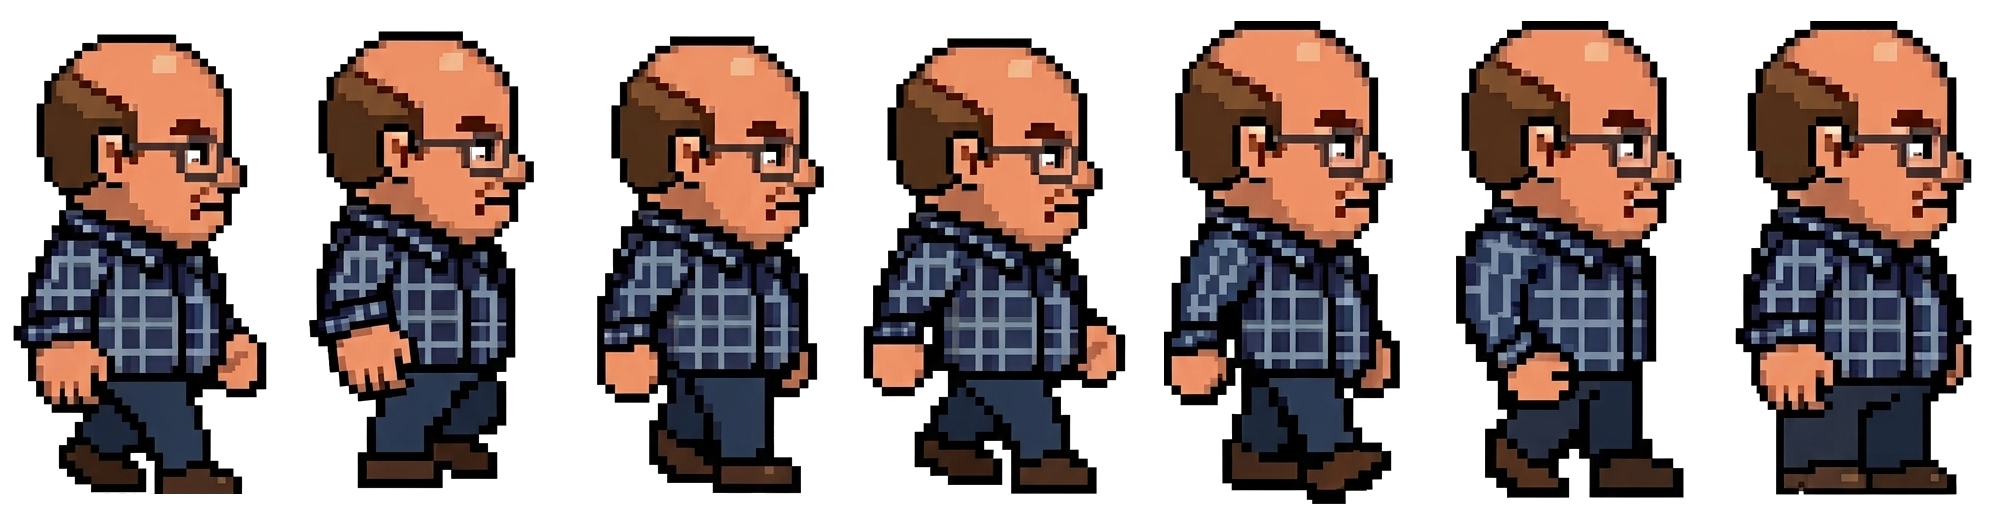
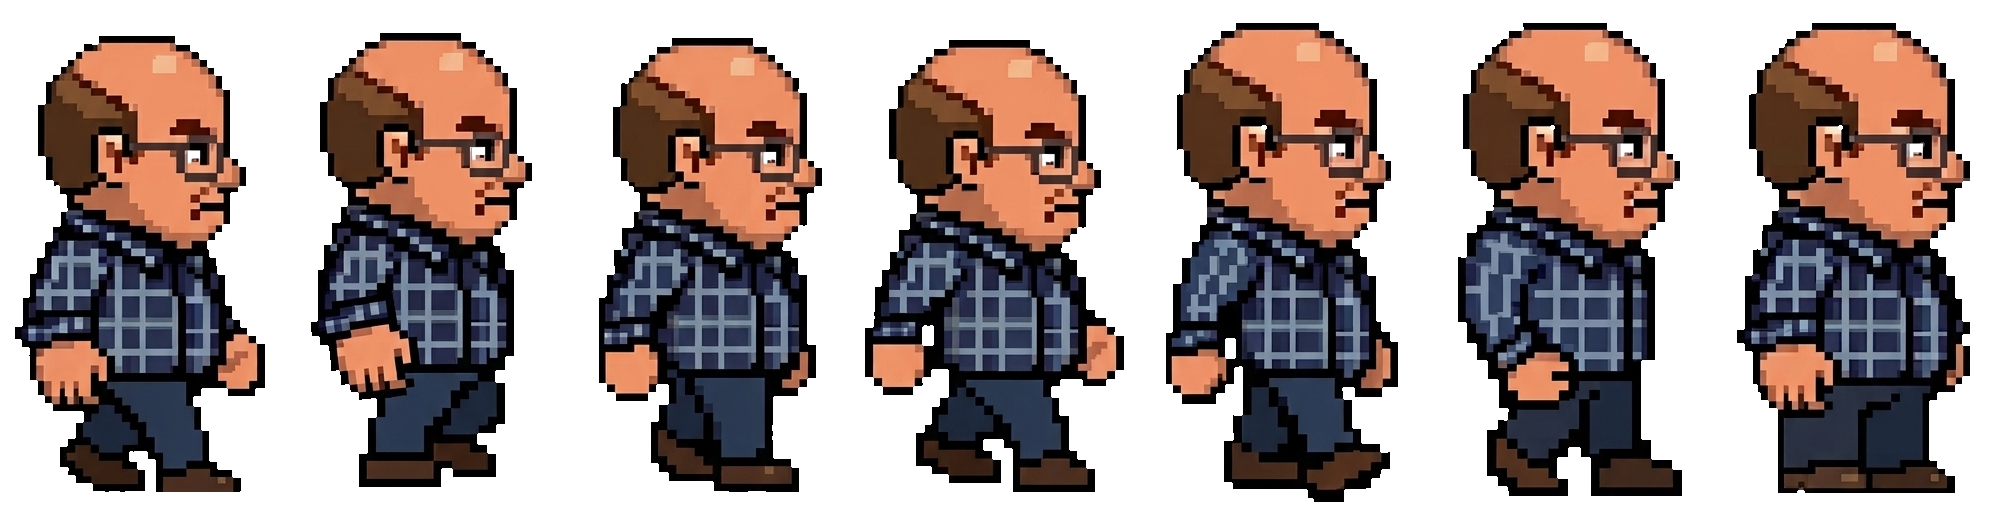
gfx optimization

diff --git a/lib/hendrik.dart b/lib/hendrik.dart
@@ -88,8 +88,34 @@ class Hendrik extends SpriteAnimationGroupComponent<Direction>
 
   @override
   void render(Canvas canvas) {
-    final ticker = animationTicker;
+    // ==========================================
+    // FAKE SCHATTEN ZEICHNEN
+    // ==========================================
+    final shadowPaint = Paint()
+      ..color = const Color(0x66000000)
+      ..style = PaintingStyle.fill;
 
+    final double shadowWidth = boxSize * 0.55;
+    final double shadowHeight = boxSize * 0.18;
+
+    final double shadowX = (boxSize - shadowWidth) / 2;
+
+    // Standard-Höhe für Hoch/Runter
+    double shadowY = boxSize - (shadowHeight * 1.2);
+
+    if (current == Direction.left || current == Direction.right) {
+      // Wir vergrößern den Abzug (z.B. von 0.7 auf 1.5),
+      // um den Schatten auf der Y-Achse weiter nach oben (höher) zu schieben.
+      shadowY = boxSize - (shadowHeight * 1.2);
+    }
+
+    canvas.drawOval(Rect.fromLTWH(shadowX, shadowY, shadowWidth, shadowHeight), shadowPaint);
+    // ==========================================
+    // ==========================================
+    // ==========================================
+
+    // Ab hier folgt dein ganz normaler, bestehender AnimationCode...
+    final ticker = animationTicker;
     if (ticker != null) {
       final sprite = ticker.getSprite();
 
@@ -113,7 +139,12 @@ class Hendrik extends SpriteAnimationGroupComponent<Direction>
       }
 
       final double offsetX = (boxSize - renderWidth) / 2;
-      final double offsetY = (boxSize - renderHeight) / 2;
+      double offsetY = (boxSize - renderHeight) / 2;
+      if (current == Direction.left || current == Direction.right) {
+        // Wir ziehen einen kleinen Prozentsatz ab (z.B. 8% der Box-Größe),
+        // um das Sprite beim Seitwärtslaufen ein Stück nach oben (höher) zu schieben.
+        offsetY -= (boxSize * 0.08);
+      }
 
       sprite.render(canvas, position: Vector2(offsetX, offsetY), size: Vector2(renderWidth, renderHeight));
     } else {